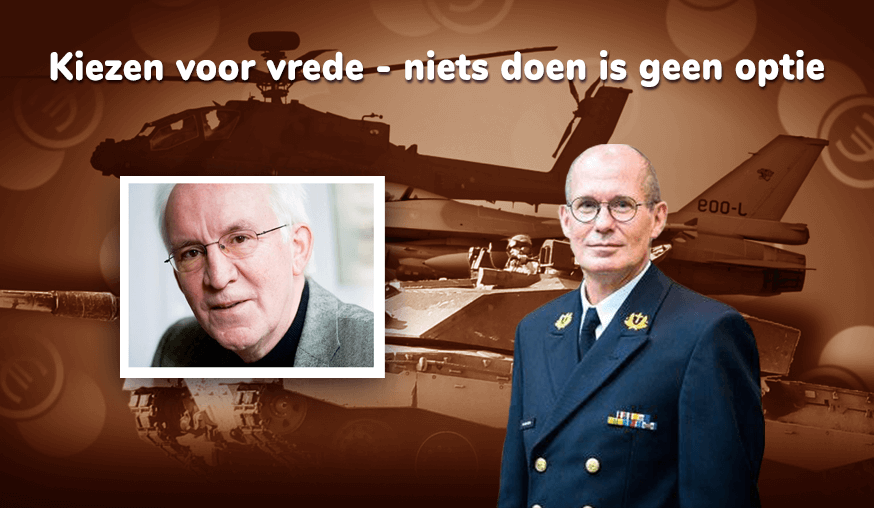
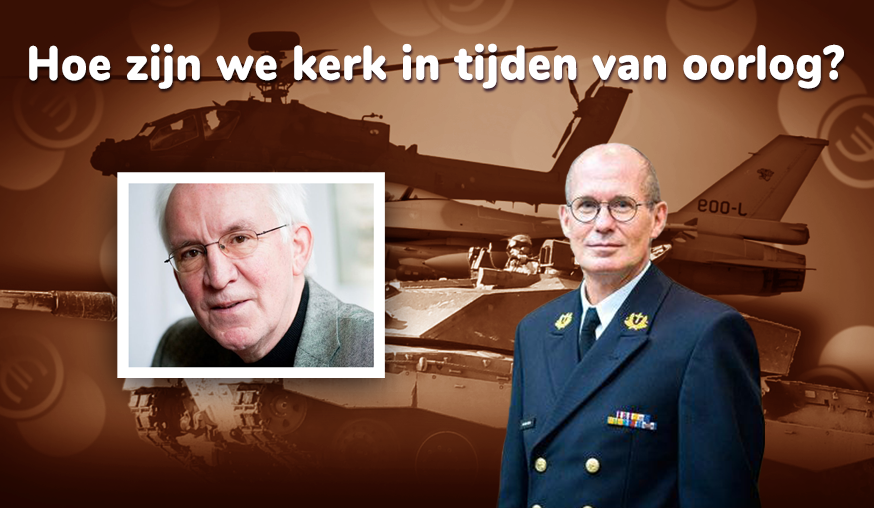
bijbels leerhuis"

Changed region(s): [[0.0309, 0.0886, 0.9886, 0.1772], [0.1236, 0.3248, 0.4325, 0.7382], [0.7105, 0.8268, 0.7414, 0.8563]]

diff --git a/src/pages/Subscribe.jsx b/src/pages/Subscribe.jsx
@@ -184,7 +184,7 @@ const Subscribe = () => {
               {contributionTexts[
                 id === "LA-AC35"
                   ? "gratis"
-                  : id === "LA-AC37" || id === "LA-AC40" || id === "LA-AC39"
+                  : id === "LA-AC37" || id === "LA-AC40" || id === "LA-AC39" || id === "LA-AC42"
                     ? "gesprek"
                     : category
               ] || null}